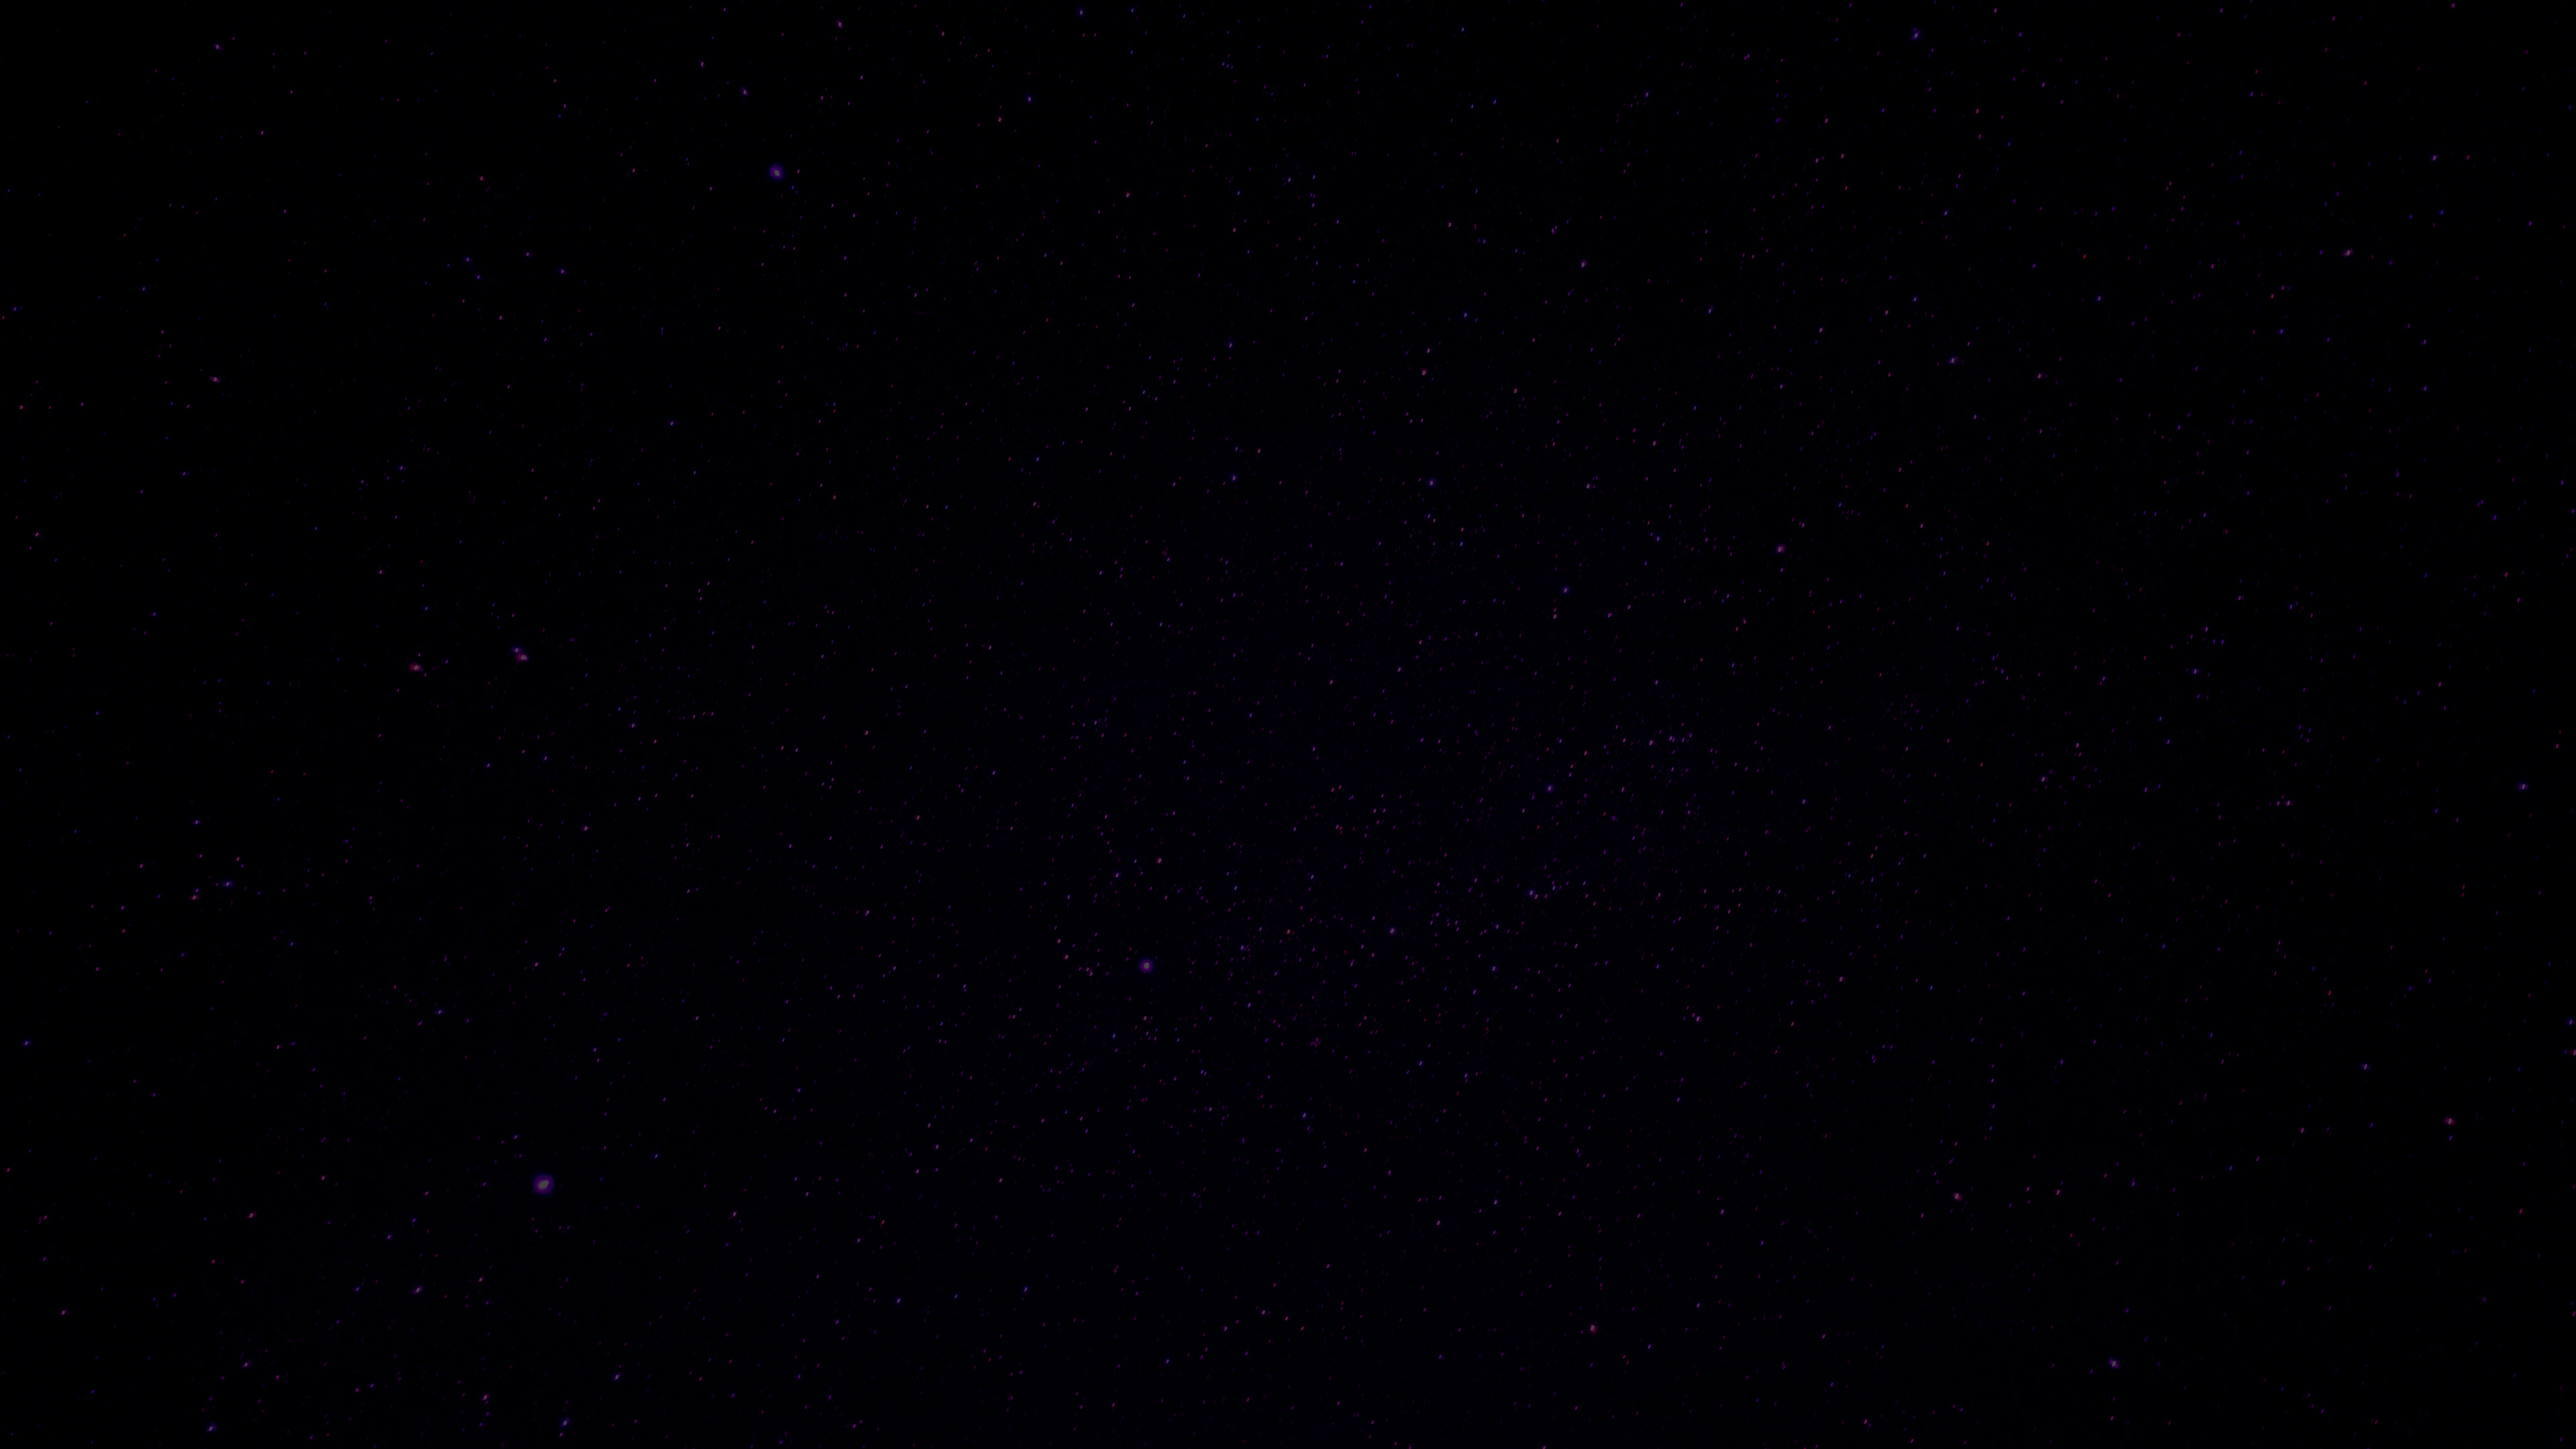
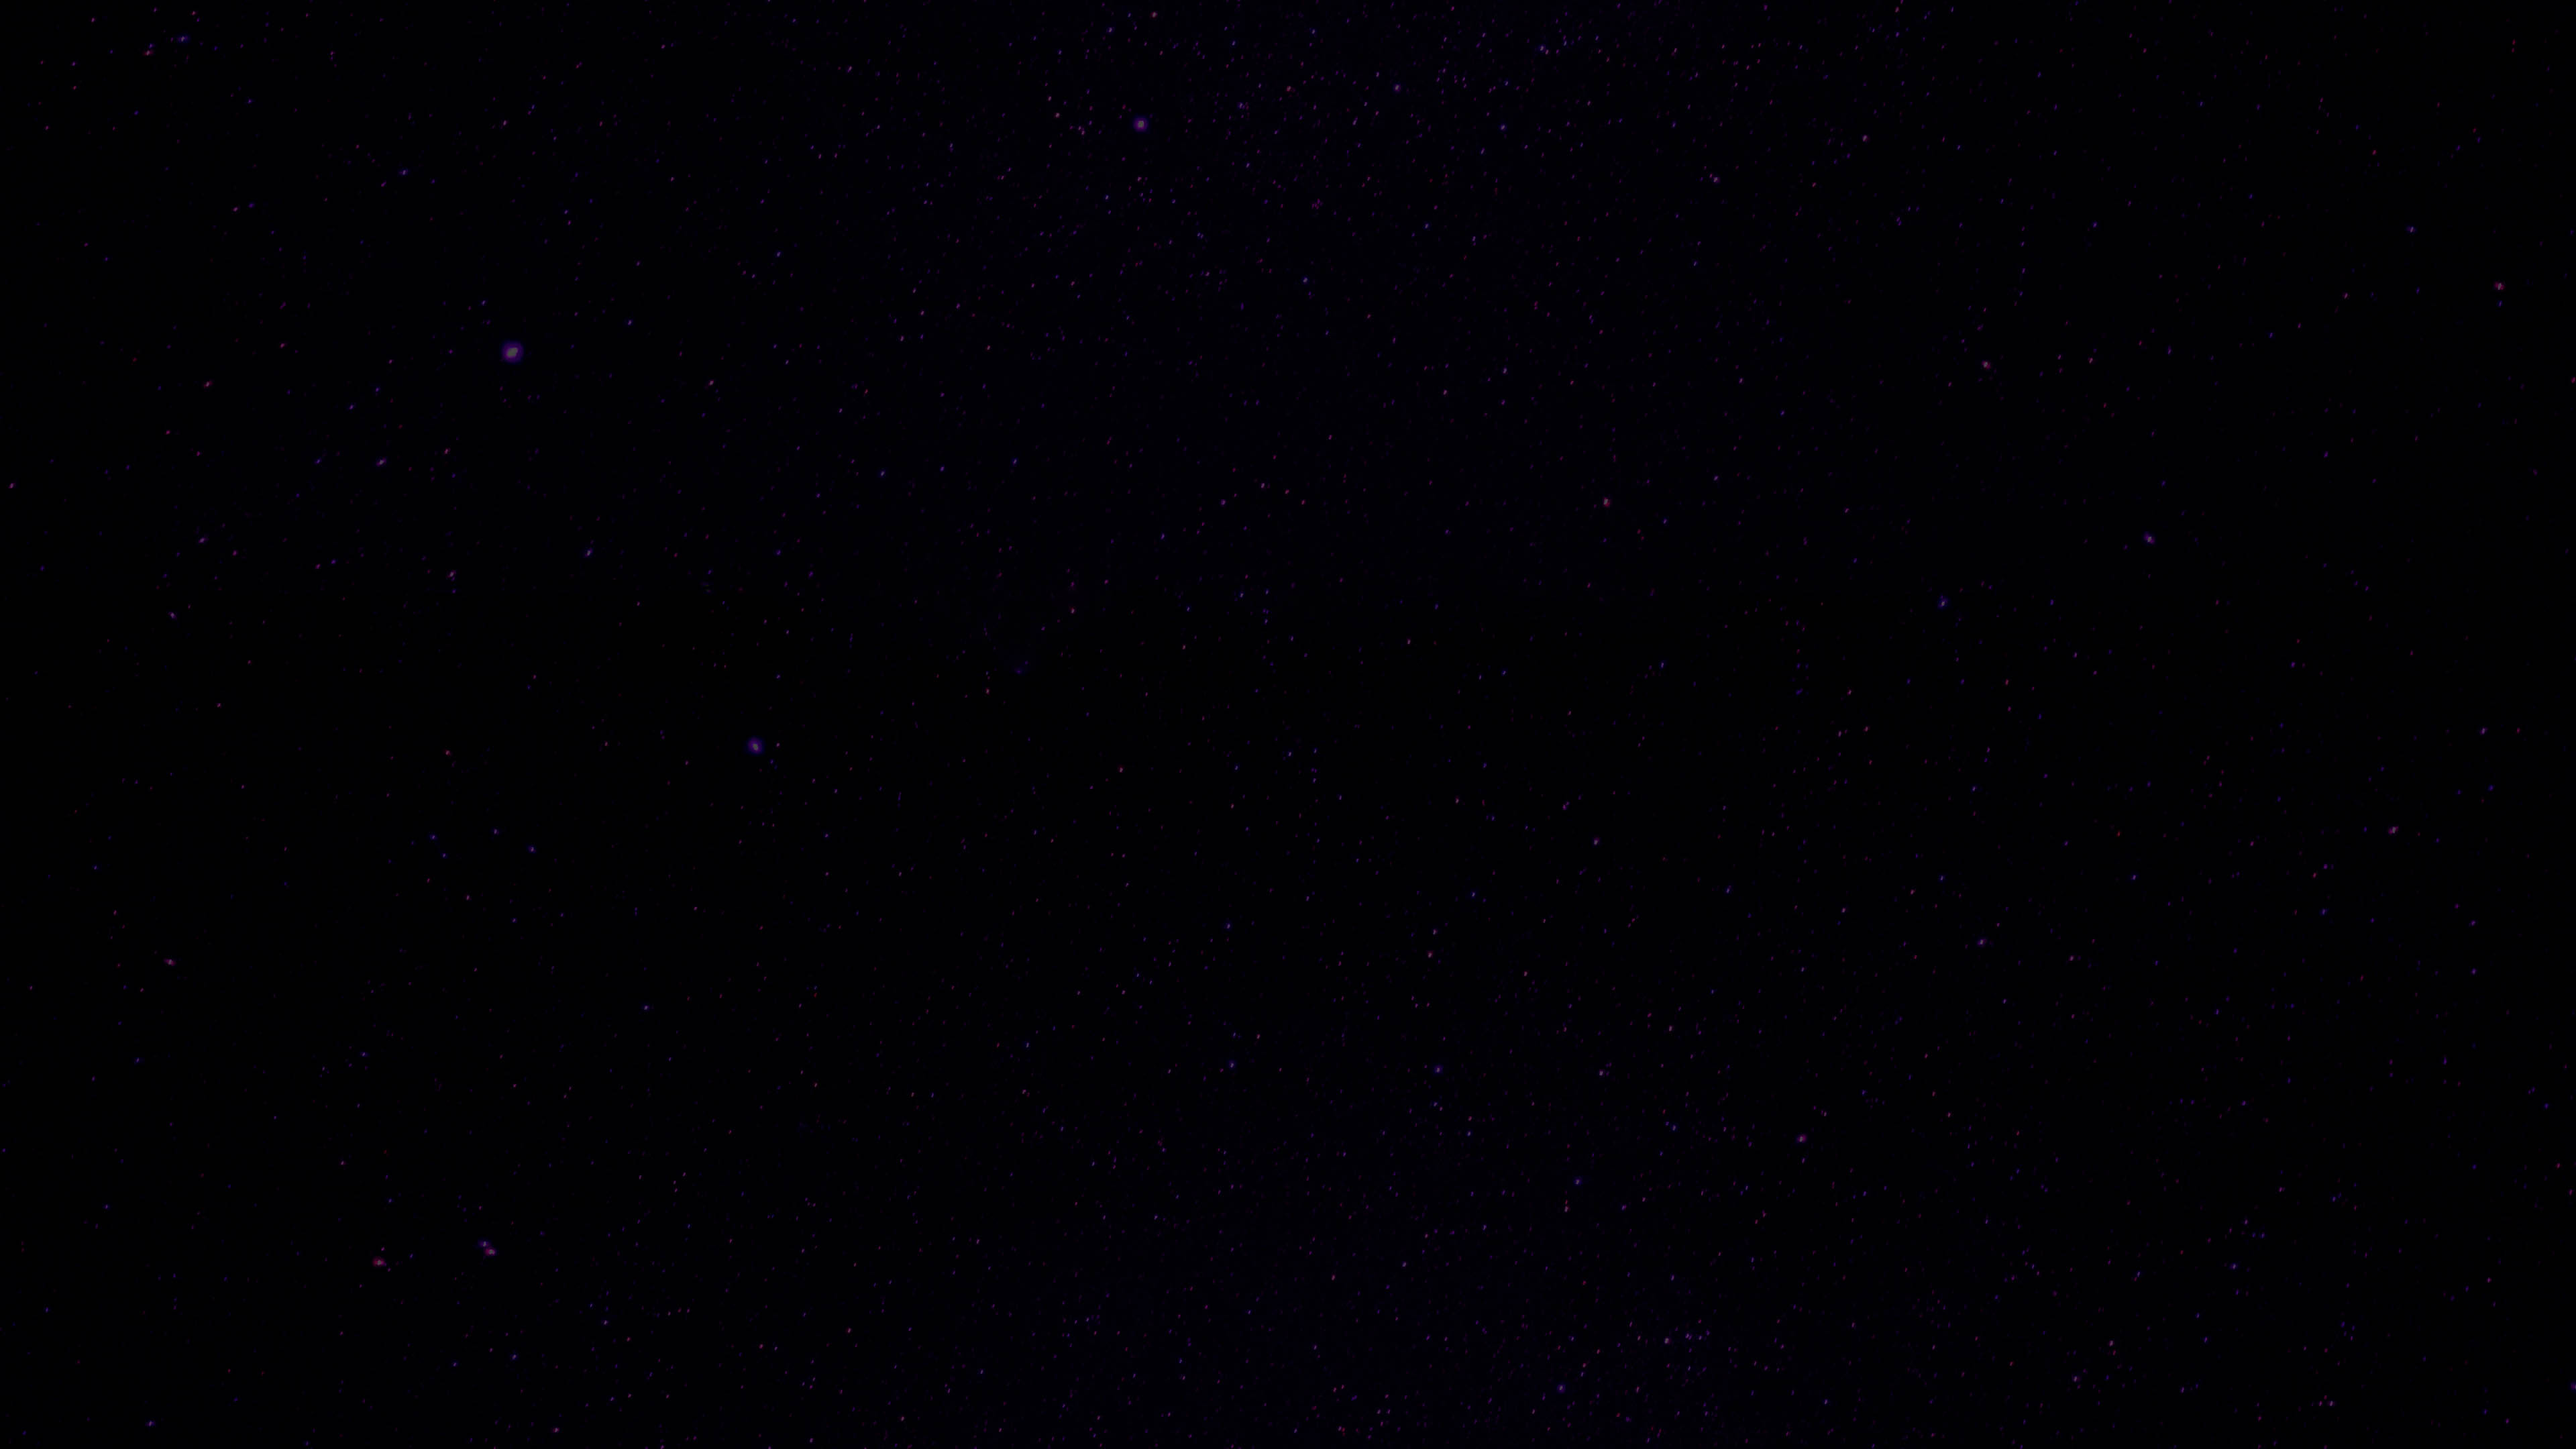
Fix bg

Changed region(s): [[0.1875, 0.8065, 0.2188, 0.8375], [0.1875, 0.2171, 0.2188, 0.2481]]

diff --git a/index_style.css b/index_style.css
@@ -4,10 +4,10 @@ html
 }
 
 ::-webkit-scrollbar {
-  overflow-y: hidden; /* Hide vertical scrollbar */
-  overflow-x: hidden; /* Hide horizontal scrollbar */
-  width: 0px;  /* Remove scrollbar space */
-  background: transparent;  /* Optional: just make scrollbar invisible */
+  overflow-y: hidden;
+  overflow-x: hidden;
+  width: 0px;
+  background: transparent;
 }
 
 /*#region FadeAnimation*/
@@ -55,11 +55,11 @@ body
 {
     background-image: url("Thumb/bg.jpg");
     background-repeat: repeat;
-    background-size: 3000px;
-    -o-background-size: 3000px;
-    -moz-background-size: 3000px;
+    background-size: 2000px;
+    -o-background-size: 2000px;
+    -moz-background-size: 2000px;
 
-    animation: moveIt 100s linear infinite;
+    animation: moveIt 300s linear infinite;
     z-index: 0;
     font-family: 'Segoe UI', Tahoma, Geneva, Verdana, sans-serif;
     margin: 0;
